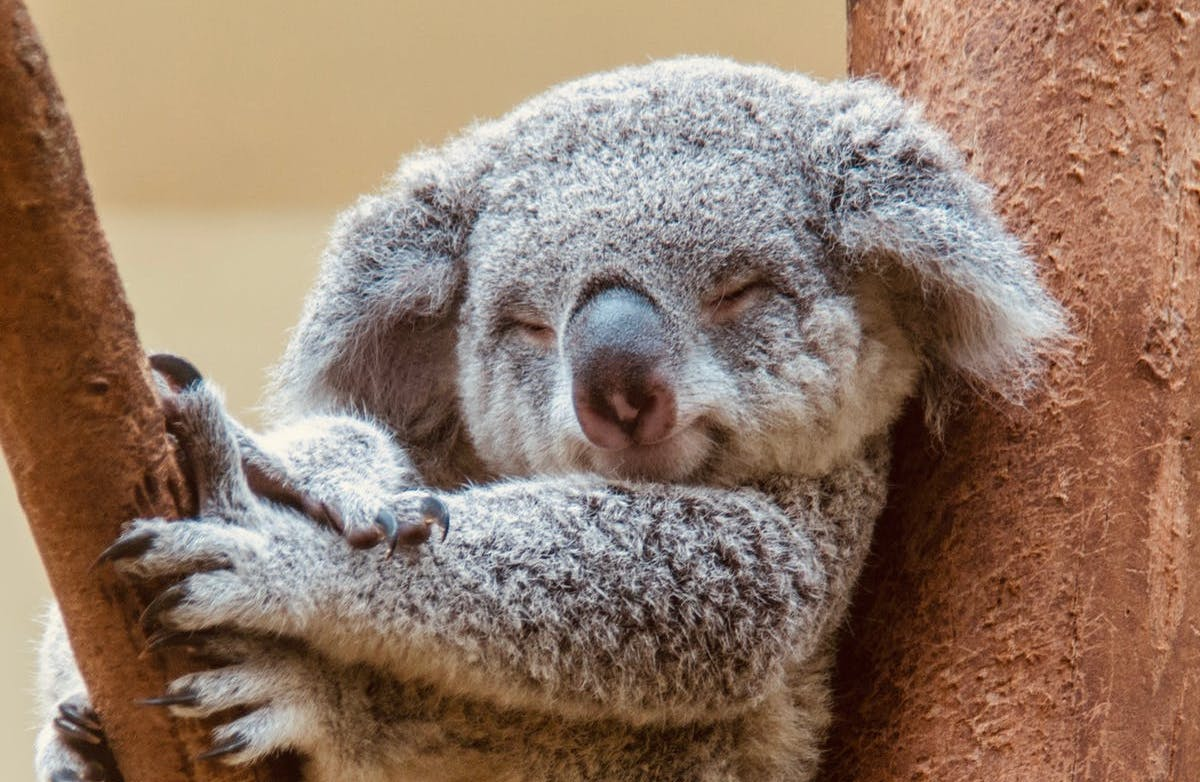
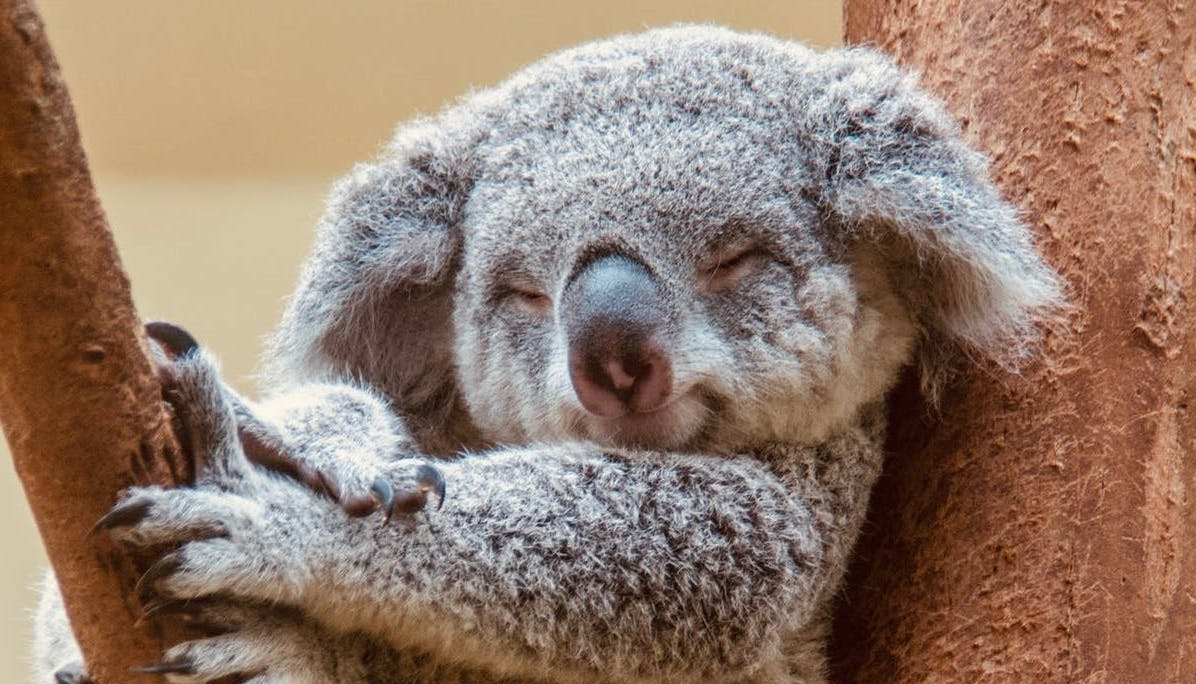
Make images clickable on the hompage which allow users to click the image to learn mroe about the animal

diff --git a/index.html b/index.html
@@ -35,10 +35,10 @@
                 There will be a brief description about them. 
             </p>
 
-            <img src ="images/koala.jpeg" alt="Koalas">
-            <img src ="images/kangaroo.jpeg" alt="Kangaroo">
-            <img src ="images/sloth.jpeg" alt="Sloth">
-            <img src ="images/panda.jpeg" alt="Koalas">
+            <a href = "koalas.html"><img src ="images/croppedKoala.jpeg" alt="Koalas" > </a>
+            <a href="kangaroos.html"><img src ="images/kangaroo.jpeg" alt="Kangaroo"> </a>
+            <a href="sloths.html"> <img src ="images/sloth.jpeg" alt="Sloth"> </a>
+            <a href="giantPandas.html"> <img src ="images/panda.jpeg" alt="giantPandas"></a>
 
         </div>
     </div>

diff --git a/css/animals.css b/css/animals.css
@@ -31,7 +31,7 @@ h1 {
 
 img {
   height: auto;
-  width: 300px;
+  width: 350px;
 
 }
 
